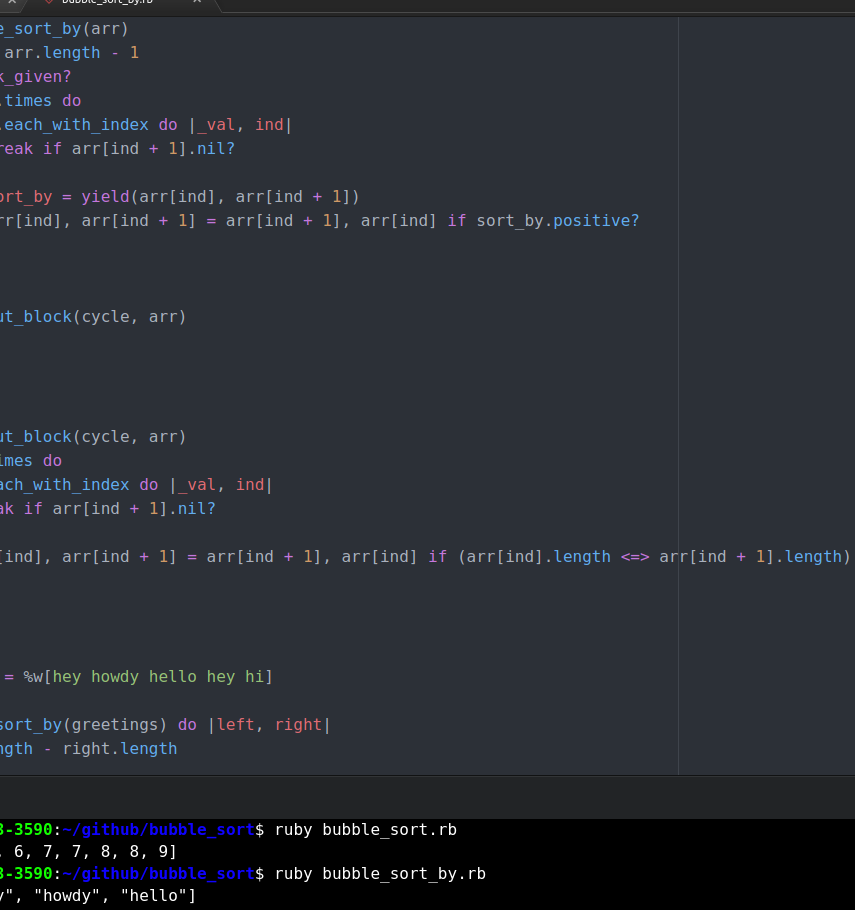
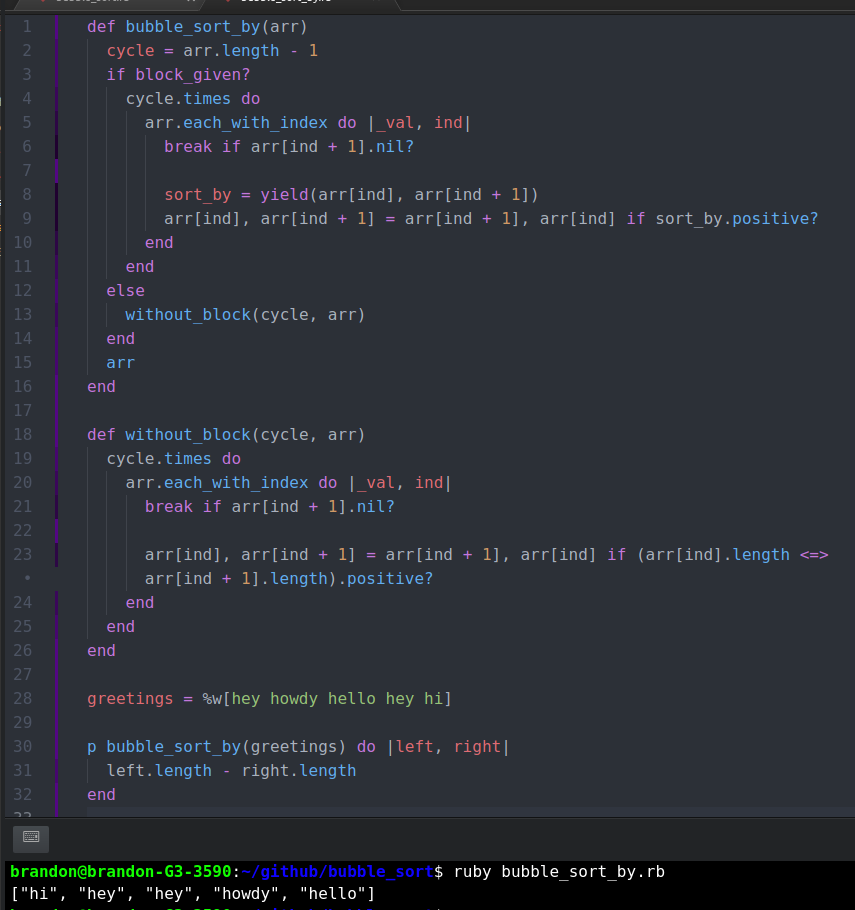
Update readme to include new screenshot

diff --git a/bubble_sort_by.rb b/bubble_sort_by.rb
@@ -27,6 +27,4 @@ end
 
 greetings = %w[hey howdy hello hey hi]
 
-p bubble_sort_by(greetings) do |left, right|
-  left.length - right.length
-end
+p bubble_sort_by(greetings) { |left, right| left.length - right.length }

diff --git a/README.md b/README.md
@@ -3,7 +3,8 @@
 This is Brandon and Kalu's Bubble Sort Ruby project
 
 ![Bubble Sort Screenshot](bs_screenshot.png)
-![Bubble Sort By Screenshot](bsb_screenshot.png)
+![Bubble Sort By (with do end) Screenshot](bsb_screenshot.png)
+![Bubble Sort By (with {}) Screenshot](bsb2_screenshot.png)
 
 This project was compiled by Kalu and Brandon in the Ruby section of the Microverse course work. It involved using ruby to create a sorting method.
 
